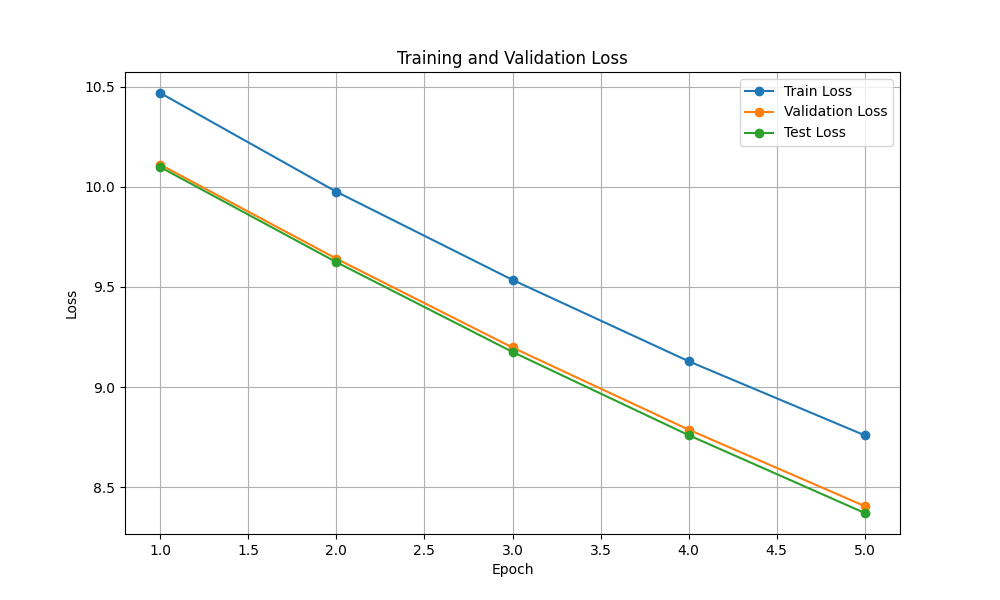
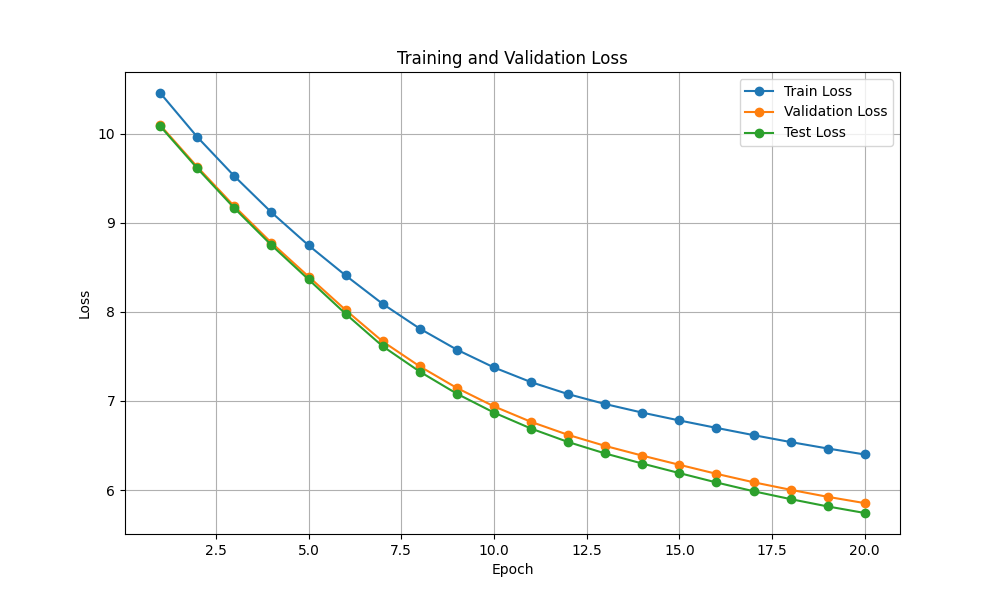
plotting done for original model

diff --git a/saved/model/starter.py b/saved/model/starter.py
@@ -429,7 +429,7 @@ def train_model(model, opt, tokenizer):
 
         # Save model
         if opt.savename:
-            torch.save(model.state_dict(), f"{opt.savename}/model_epoch_{epoch}.pth")
+            torch.save(model.state_dict(), f"{opt.savename}/model_epoch_{epoch+1}.pth")
 
         validate_model(model, opt, epoch, tokenizer)
         test_model(model, opt, epoch, tokenizer)
@@ -562,7 +562,7 @@ def main():
     parser = argparse.ArgumentParser()
     parser.add_argument('-no_cuda', action='store_true')
     parser.add_argument('-SGDR', action='store_true')
-    parser.add_argument('-epochs', type=int, default=5)
+    parser.add_argument('-epochs', type=int, default=20)
     parser.add_argument('-d_model', type=int, default=512)
     parser.add_argument('-n_layers', type=int, default=6)
     parser.add_argument('-heads', type=int, default=8)
@@ -572,7 +572,7 @@ def main():
     parser.add_argument('-lr', type=int, default=0.00001)
     parser.add_argument('-seqlen', type=int, default=512)
     parser.add_argument('-threshold', type=int, default=3)
-    parser.add_argument('-savename', type=str)    
+    parser.add_argument('-savename', type=str, default="model_weights")    
     parser.add_argument('-loadname', type=str)    
     parser.add_argument('-tied', type=int, default=1)
     parser.add_argument('-dir_name', type=str,default='model')

diff --git a/starter.py b/starter.py
@@ -429,7 +429,7 @@ def train_model(model, opt, tokenizer):
 
         # Save model
         if opt.savename:
-            torch.save(model.state_dict(), f"{opt.savename}/model_epoch_{epoch}.pth")
+            torch.save(model.state_dict(), f"{opt.savename}/model_epoch_{epoch+1}.pth")
 
         validate_model(model, opt, epoch, tokenizer)
         test_model(model, opt, epoch, tokenizer)
@@ -562,7 +562,7 @@ def main():
     parser = argparse.ArgumentParser()
     parser.add_argument('-no_cuda', action='store_true')
     parser.add_argument('-SGDR', action='store_true')
-    parser.add_argument('-epochs', type=int, default=5)
+    parser.add_argument('-epochs', type=int, default=20)
     parser.add_argument('-d_model', type=int, default=512)
     parser.add_argument('-n_layers', type=int, default=6)
     parser.add_argument('-heads', type=int, default=8)
@@ -572,7 +572,7 @@ def main():
     parser.add_argument('-lr', type=int, default=0.00001)
     parser.add_argument('-seqlen', type=int, default=512)
     parser.add_argument('-threshold', type=int, default=3)
-    parser.add_argument('-savename', type=str)    
+    parser.add_argument('-savename', type=str, default="model_weights")    
     parser.add_argument('-loadname', type=str)    
     parser.add_argument('-tied', type=int, default=1)
     parser.add_argument('-dir_name', type=str,default='model')

diff --git a/report.md b/report.md
@@ -2,7 +2,10 @@
 
 ### Modification to original code
 
-The original code for this homework was an Encoder-Decoder Transformer architecture that had a source and target vocabulary while also using cross-attention. To alter this into a decoder only autoregressive language model, the first step was to get rid of the encoder completely. I commented out the original encoder and changed the input paramteres to the decoder to exclude the output of the encoder (). Second, the cross-attention is no longer needed. Self-attention is the only thing this model needs to utilize. For this reason, the lines that performed cross attention in the `MultiHeadAttention` class were commented out. 
+The original code for this homework was an Encoder-Decoder Transformer architecture that had a source and target vocabulary while also using cross-attention. To alter this into a decoder only autoregressive language model, the first step was to get rid of the encoder completely. I commented out the original encoder and changed the input paramteres to the decoder to exclude the output of the encoder (). Second, the cross-attention is no longer needed. Self-attention is the only thing this model needs to utilize. For this reason, the lines that performed cross attention using the MultiheadAttention class in the `DecoderLayer` class were commented out (). After this, a single vocabulary size was taken from the corpus gathered from the tokenizer, replacing the need for a target and source vocab. The vocab was then tokenized, embedded, then shifted to get the input and prediction tensors. Next, the model needed to be able to handle any batch sizes for optimal training, so I created a data_generator class that generates the data in batches with padding. This function returns the input and target sequences that are passed into the transformer architecture. 
+
+Finally, the training, validation, and test functions were created to train the decoder transformer model. The `train_model()` function orchestrates the training loop, processing batches of tokenized text with gradient updates, logging loss and perplexity, and periodically saving model checkpoints, while also calling `validate_model()` and `test_model()` after each epoch. These evaluation functions share a similar structure: they disable gradient computation (`torch.no_grad()`), compute masked autoregressive predictions using the same `nopeak_mask` as training, and calculate cross-entropy loss (ignoring padding tokens) and perplexity, but differ in their data sources (validation or test sets) and batch iteration handling. All three functions log epoch-wise metrics (loss and perplexity) to both console and a file, enabling performance tracking across the training lifecycle. The unified design ensures consistent behavior across training and evaluation while maintaining separation between training dynamics (optimizer steps, gradient clipping) and inference-mode evaluation.
+
 ---
 
 ### Results 
